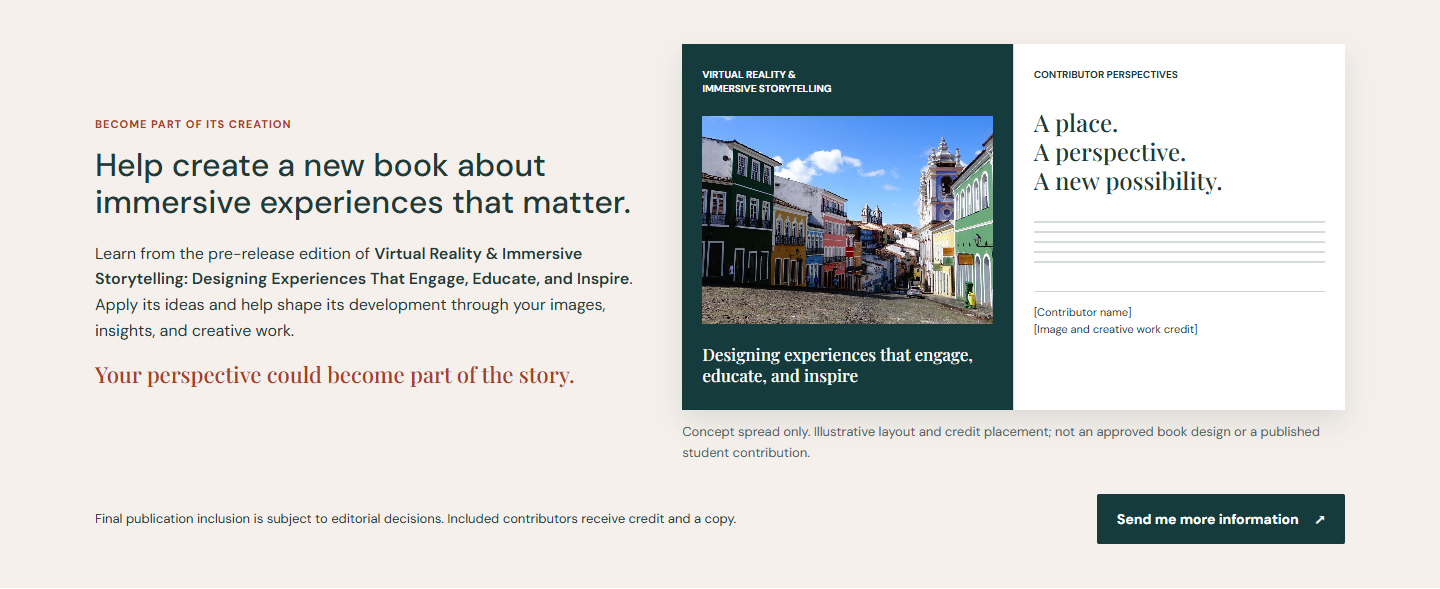
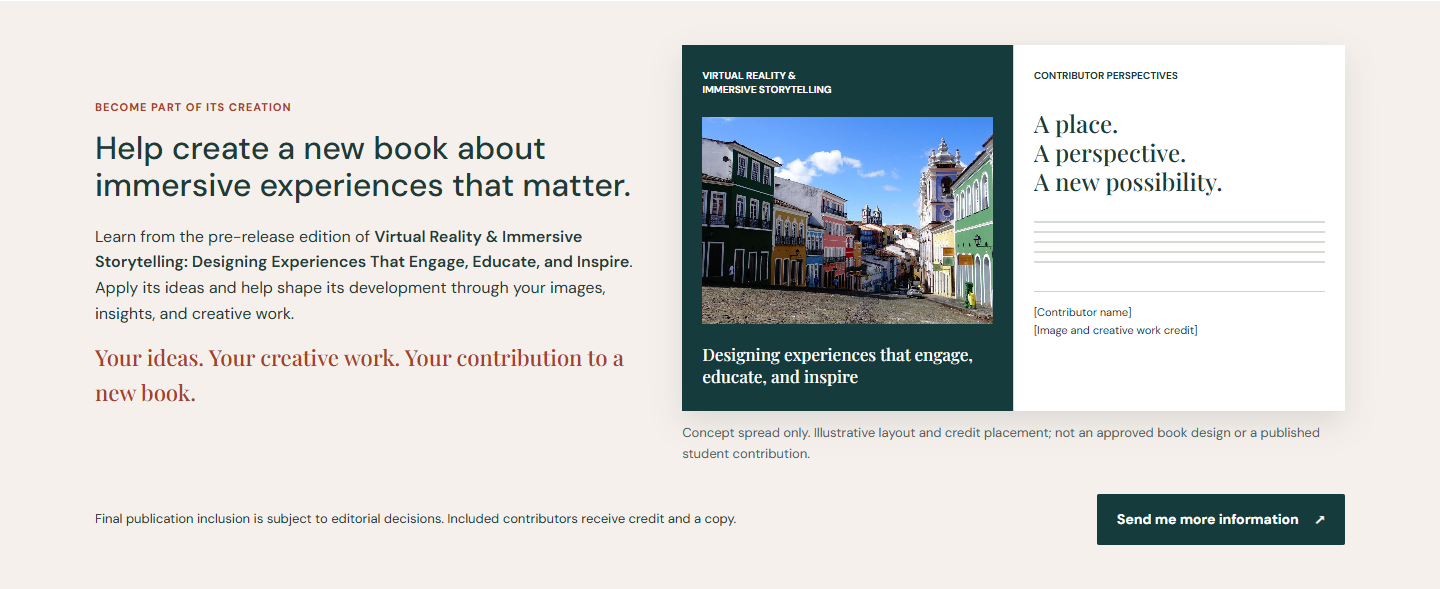
Polish recruitment copy and embed click-to-load videos

diff --git a/index.html b/index.html
@@ -73,10 +73,8 @@
               src="assets/signup-qr.png"
               width="88"
               height="88"
-              alt="QR code for the UF in Brazil information signup"
-            /><a href="https://uf-brazil.mixed.group/signup.html"
-              >uf-brazil.mixed.group/signup.html</a
-            >
+              alt="QR code for the UF in Brazil website"
+            /><a href="https://uf-brazil.mixed.group/">uf-brazil.mixed.group</a>
           </div>
         </div>
       </section>
@@ -154,6 +152,10 @@
         <p class="themes">
           Past, present, future: explore Afro-Brazilian heritage, living
           cultural traditions, and new possibilities for the historic downtown.
+          Pelourinho is part of Salvador's
+          <a href="https://whc.unesco.org/en/list/309/"
+            >UNESCO-listed Historic Centre</a
+          >.
         </p>
         <div id="your-role" class="roles">
           <h3>Bring your perspective.</h3>
@@ -161,8 +163,7 @@
             Research a story, shape a space, create images, design an
             interaction, or build a prototype. Artists, architects, designers,
             engineers, programmers, historians, and storytellers all have a
-            place. These are possibilities to explore across disciplines, not
-            assignments by major.
+            place.
           </p>
         </div>
         <div class="project-links">
@@ -196,7 +197,7 @@
             images, insights, and creative work.
           </p>
           <p class="book-recognition">
-            Your perspective could become part of the story.
+            Your ideas. Your creative work. Your contribution to a new book.
           </p>
         </div>
         <figure class="book-art" data-book-visual>
@@ -261,29 +262,45 @@
               and experience bringing UF and Brazilian students together.
             </p>
             <p class="caption">
-              Alex's Summer 2026 course brought UF and Brazilian students
-              together. Program support includes bilingual coordination.
+              Dr. Alexandre Siqueira's Summer 2026 course brought UF and
+              Brazilian students together. Program support includes bilingual
+              coordination.
             </p>
           </div>
         </div>
         <div class="research-evidence">
-          <a
-            class="video-preview"
-            href="https://www.youtube.com/watch?v=5Fza7_oQT28"
-            ><div class="video-image">
-              <img
-                src="https://i.ytimg.com/vi/5Fza7_oQT28/hqdefault.jpg"
-                alt=""
-                width="480"
-                height="360"
-                loading="lazy"
-              /><span class="play" aria-hidden="true">&#9654;</span>
-            </div>
-            <strong>Meet SENAI CIMATEC</strong
-            ><span>Watch on YouTube &#8599;</span></a
-          >
+          <div class="video-preview">
+            <a
+              class="video-trigger"
+              data-video="5Fza7_oQT28"
+              data-video-title="Meet SENAI CIMATEC"
+              aria-label="Play Meet SENAI CIMATEC"
+              href="https://www.youtube.com/watch?v=5Fza7_oQT28"
+              ><div class="video-image">
+                <img
+                  src="https://i.ytimg.com/vi/5Fza7_oQT28/hqdefault.jpg"
+                  alt=""
+                  width="480"
+                  height="360"
+                  loading="lazy"
+                /><span class="play" aria-hidden="true">&#9654;</span>
+              </div> </a
+            ><strong>Meet SENAI CIMATEC</strong>
+            <a
+              class="video-fallback"
+              href="https://www.youtube.com/watch?v=5Fza7_oQT28"
+              >Watch on YouTube &#8599;</a
+            >
+          </div>
           <div>
             <h3>An industry-connected environment</h3>
+            <p>
+              SENAI CIMATEC hosted
+              <a href="https://svr.sbc.org.br/2025/index.php/venue/"
+                >SVR 2025, the Brazilian Symposium on Virtual and Augmented
+                Reality</a
+              >, connecting researchers in immersive technology.
+            </p>
             <p>
               CIMATEC Park is home to Ford's Development and Technology Center -
               part of the industry-connected environment you'll explore.
@@ -373,21 +390,29 @@
         </ul>
         <a href="#expenses">See full inclusions and additional costs</a>
         <div class="culture">
-          <a
-            class="video-preview"
-            href="https://www.youtube.com/watch?v=ia_2SHV88Q0"
-            ><div class="video-image">
-              <img
-                src="https://i.ytimg.com/vi/ia_2SHV88Q0/hqdefault.jpg"
-                alt=""
-                width="480"
-                height="360"
-                loading="lazy"
-              /><span class="play" aria-hidden="true">&#9654;</span>
-            </div>
-            <strong>Explore Salvador</strong
-            ><span>Watch on YouTube &#8599;</span></a
-          >
+          <div class="video-preview">
+            <a
+              class="video-trigger"
+              data-video="ia_2SHV88Q0"
+              data-video-title="Explore Salvador"
+              aria-label="Play Explore Salvador"
+              href="https://www.youtube.com/watch?v=ia_2SHV88Q0"
+              ><div class="video-image">
+                <img
+                  src="https://i.ytimg.com/vi/ia_2SHV88Q0/hqdefault.jpg"
+                  alt=""
+                  width="480"
+                  height="360"
+                  loading="lazy"
+                /><span class="play" aria-hidden="true">&#9654;</span>
+              </div> </a
+            ><strong>Explore Salvador</strong>
+            <a
+              class="video-fallback"
+              href="https://www.youtube.com/watch?v=ia_2SHV88Q0"
+              >Watch on YouTube &#8599;</a
+            >
+          </div>
           <div>
             <h3>The place is part of the learning.</h3>
             <p>
@@ -535,10 +560,8 @@
               src="assets/signup-qr.png"
               width="100"
               height="100"
-              alt="QR code for the UF in Brazil information signup"
-            /><a href="https://uf-brazil.mixed.group/signup.html"
-              >uf-brazil.mixed.group/signup.html</a
-            >
+              alt="QR code for the UF in Brazil website"
+            /><a href="https://uf-brazil.mixed.group/">uf-brazil.mixed.group</a>
           </div>
         </div>
       </section>

diff --git a/site.js b/site.js
@@ -1,5 +1,27 @@
 (() => {
   const config = window.UFBrazilConfig || {};
+  document.querySelectorAll("[data-video]").forEach((link) => {
+    const id = link.dataset.video;
+    if (!/^[A-Za-z0-9_-]{11}$/.test(id)) return;
+    const button = document.createElement("button");
+    button.type = "button";
+    button.className = link.className;
+    button.setAttribute("aria-label", link.getAttribute("aria-label"));
+    button.append(...link.childNodes);
+    link.replaceWith(button);
+    button.addEventListener("click", () => {
+      const player = document.createElement("iframe");
+      player.className = "video-player";
+      player.title = link.dataset.videoTitle;
+      player.src = `https://www.youtube-nocookie.com/embed/${id}?autoplay=1&playsinline=1`;
+      player.allow =
+        "autoplay; encrypted-media; picture-in-picture; fullscreen";
+      player.allowFullscreen = true;
+      player.referrerPolicy = "strict-origin-when-cross-origin";
+      button.replaceWith(player);
+      player.focus();
+    });
+  });
   const safeUrl = (value) => {
     if (typeof value !== "string" || !value.trim()) return null;
     try {

diff --git a/styles.css b/styles.css
@@ -454,6 +454,23 @@ dd {
   text-decoration: none;
   max-width: 520px;
 }
+.video-trigger {
+  display: block;
+  width: 100%;
+  border: 0;
+  padding: 0;
+  background: var(--green);
+  cursor: pointer;
+}
+.video-player {
+  display: block;
+  width: 100%;
+  aspect-ratio: 16 / 9;
+  border: 0;
+}
+.video-fallback {
+  font-size: 13px;
+}
 .video-image {
   position: relative;
   aspect-ratio: 16/9;

diff --git a/docs/RELEASE.md b/docs/RELEASE.md
@@ -40,7 +40,9 @@ The visible book spread is a labeled HTML/CSS concept using the existing Pelouri
 - The UF Abroad brochure was inspected on October 3, 2026: dates, deadline, fees, eligibility, course titles/codes, deposit, payment timing, and remaining inclusions match the page. The brochure remains the source of current application terms.
 - Ford's September 23, 2026 official article confirms its Development and Technology Center at CIMATEC Park in Camacari: https://www.fromtheroad.ford.com/br/pt/articles/2026/ford-abre-as-portas-de-seu-centro-tecnologico-na-bahia-para-a-19 . This is an ecosystem connection, not a confirmed Ford meeting or endorsement. No Ford logo is used. Visit arrangements can be added to the practical disclosure once confirmed.
 - The original opening image is preserved. Praia do Forte lighthouse and village photo attributions and license links remain in the footer. Scenic photographs are not labeled as hostel images. Other repository photographs without documented clearance are not introduced into the new page.
-- Two visible YouTube previews are links rather than autoplay embeds. Supplementary SENAI, Bahia, Ilha dos Frades, and Gainesville resources are retained. Preview images and fonts depend on external services; the descriptive links remain usable without those images.
+- Two visible video previews load titled YouTube privacy-enhanced embedded players only when clicked. Keyboard activation works and YouTube links remain available as a fallback, including without JavaScript. Supplementary SENAI, Bahia, Ilha dos Frades, and Gainesville resources are retained. Preview images and fonts depend on external services.
+- Opening and closing QR codes now point to the main website, `https://uf-brazil.mixed.group/`.
+- Pelourinho is identified as part of Salvador's UNESCO-listed Historic Centre, with the UNESCO listing linked. The SVR 2025 host reference is supported by the official SBC conference documentation and https://comissoes.sbc.org.br/ce-rv/ . Dr. Alexandre Siqueira and his Summer 2026 course are named in the English-support evidence.
 
 ## Verification
 
@@ -49,3 +51,5 @@ Run `npm ci`, install a Playwright Chromium browser (`npx playwright install chr
 The checks cover desktop 1440px, tablet 820px, phones 390px/320px, signup layouts, horizontal overflow, loaded images, internal anchors, seven-section order, book positioning in the first half, opening photo in the mobile first screen, keyboard skip/disclosure controls, reduced motion, and WCAG A/AA automated axe checks. Signup tests use local intercepted responses only; no real registrations or email are sent. Accepted, rejected, ambiguous-200, and network-failure cases are covered, as are email-only requirements and guide/book configuration integration.
 
 `docs/checks.json` contains the latest result. `docs/screenshots/` contains responsive page, opening, book, and signup captures. Automated checks do not replace screen-reader or real-device testing. No production delivery was tested because no service is configured. Docker image build was not verified in this environment.
+
+After the marketing revision, the suite was rerun and all responsive captures refreshed. Click-to-load keyboard/player creation and stable dimensions are verified with local iframe fixtures. Actual SENAI and Salvador playback was also observed in the in-app browser at the local preview, without navigating away. Third-party availability and browser autoplay settings can still affect playback. These checks are implementation evidence; they do not imply Alex independently verified accessibility or screenshots.

diff --git a/docs/PR.md b/docs/PR.md
@@ -2,7 +2,7 @@
 
 The previous recruitment page delayed the opening image on phones, repeated the all-majors invitation, and directed every main action to application. This revision presents seven concise sections: opening, outcomes, project/roles, book participation, research/industry, coastal life/value, and practical details/signup.
 
-Preserves the opening image, cleared coastal photographs with attribution, official application link, useful cultural resources, keyboard disclosures, skip link, and reduced motion. Adds the approved Ford and English-language context, full-stay hostel coverage, visible prices, two visible video previews, and opening/closing QR codes. The book spread is explicitly labeled concept artwork.
+Preserves the opening image, cleared coastal photographs with attribution, official application link, useful cultural resources, keyboard disclosures, skip link, and reduced motion. Includes the approved Ford and English-language context naming Dr. Alexandre Siqueira's Summer 2026 course, full-stay hostel coverage, visible prices, UNESCO/SVR 2025 context, and stronger book recognition. Two visible previews now load embedded players on click so students can watch in place; fallback YouTube links remain. Opening/closing QR codes point to the main website. The book spread is explicitly labeled concept artwork.
 
 The separate signup page requires only email. It stays disabled until a service is configured; success requires HTTP success plus an explicit `accepted: true` acknowledgement. The forthcoming guide has hidden configuration hooks, with no dead download links.
 
@@ -12,6 +12,8 @@ The separate signup page requires only email. It stays disabled until a service 
 - No horizontal overflow, missing internal anchors, unloaded images, or automated WCAG A/AA axe violations in checked layouts.
 - Opening photograph enters the first phone screen; book appears in the first half of the page.
 - Keyboard skip link/disclosures and reduced motion verified.
+- Click-to-load player creation, keyboard activation, unchanged page URL, titled iframes, fallback links, and stable player dimensions verified. No YouTube player is loaded before activation. Player creation checks use local iframe fixtures; real playback is separately checked where accessible.
+- Both real embedded videos were manually verified in the in-app browser on the local preview: SENAI playback showed changing scenes/captions, and Salvador playback showed elapsed time and the Pause control. Both remained on the program page.
 - Email-only validation and accepted/rejected/ambiguous-200/network-failure flows verified using local fixtures, without real mail.
 - Guide and approved-book visual integration hooks verified using local fixtures.
 - `git diff --check`; dependency audit found no vulnerabilities during installation.

diff --git a/README.md b/README.md
@@ -25,7 +25,7 @@ The original opening image, `Colorful street scene of Salvador, Brazil.jpg`, is 
 
 Both attributions are visible in the footer. These images show the village, not the hostel. Other existing assets are retained in the repository but are not newly used without rights verification.
 
-`assets/signup-qr.png` encodes `https://uf-brazil.mixed.group/signup.html`; regenerate with `node scripts/generate-qr.cjs` if that public destination changes. QR codes supplement clickable links.
+`assets/signup-qr.png` encodes `https://uf-brazil.mixed.group/`; regenerate with `node scripts/generate-qr.cjs` if that public destination changes. Opening and closing QR codes point to the main website and supplement clickable links.
 
 ## Checks
 
